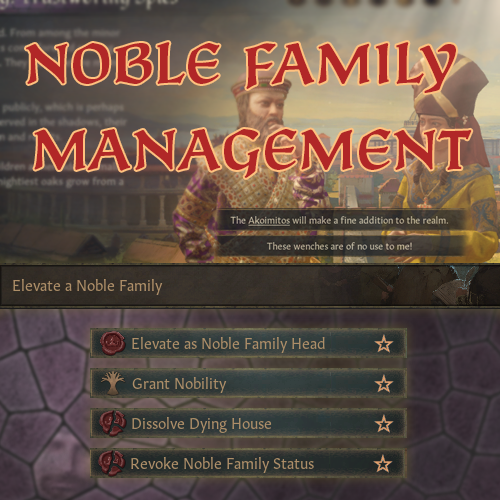
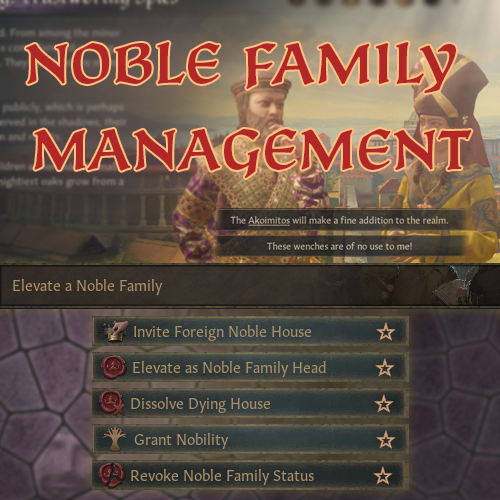
Bump to Version 1.1.0

Changed region(s): [[0.18, 0.63, 0.84, 0.99]]

diff --git a/changelog.md b/changelog.md
@@ -1,5 +1,16 @@
 # Changelog
 
+## v1.1.0 - 2026/01/13
+
+### Added
+- New "Invite Foreign House Head" interaction to recruit heads of existing noble families from other realms
+- New icon for "Dissolve Dying House" interaction
+- New icon for "Invite Foreign House Head" interaction
+
+### Fixed
+- Removed unused localization keys
+
+
 ## v1.0.2 - 2026/01/10
 
 ### Added or Changed
